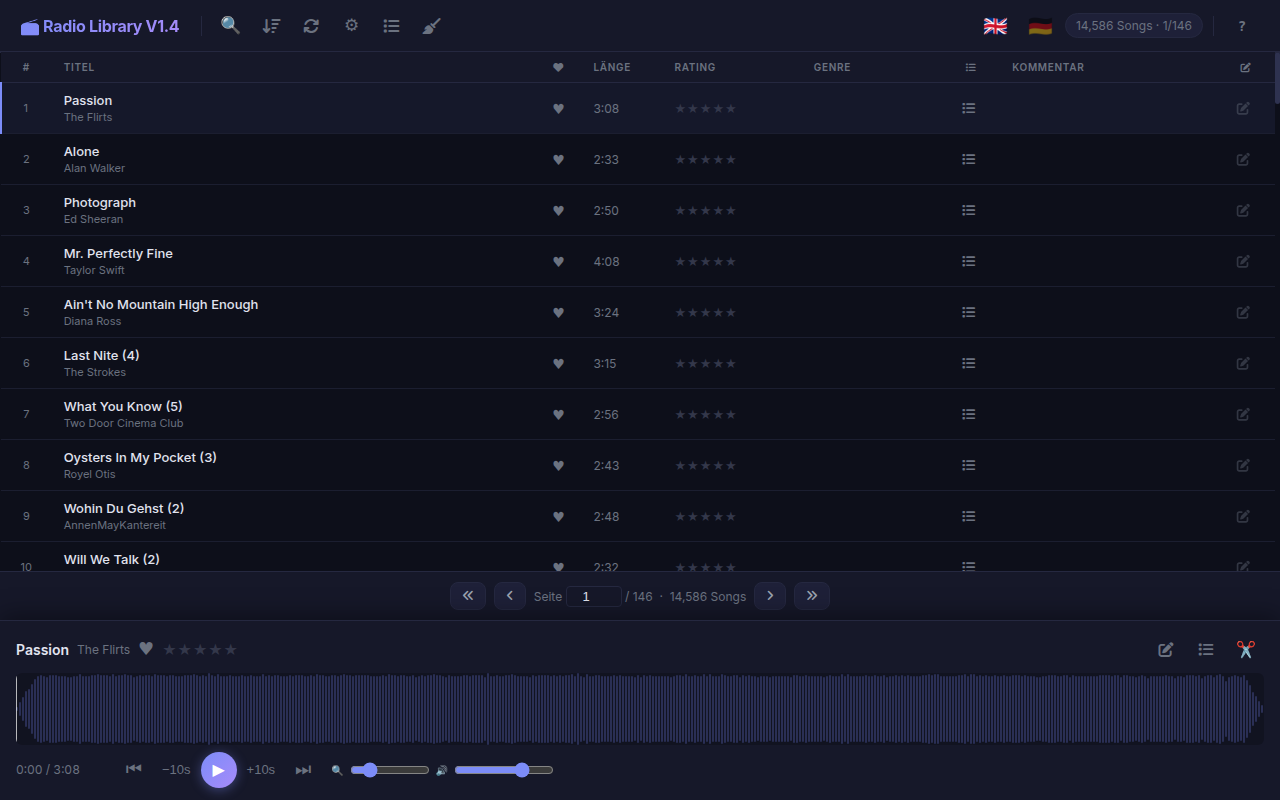
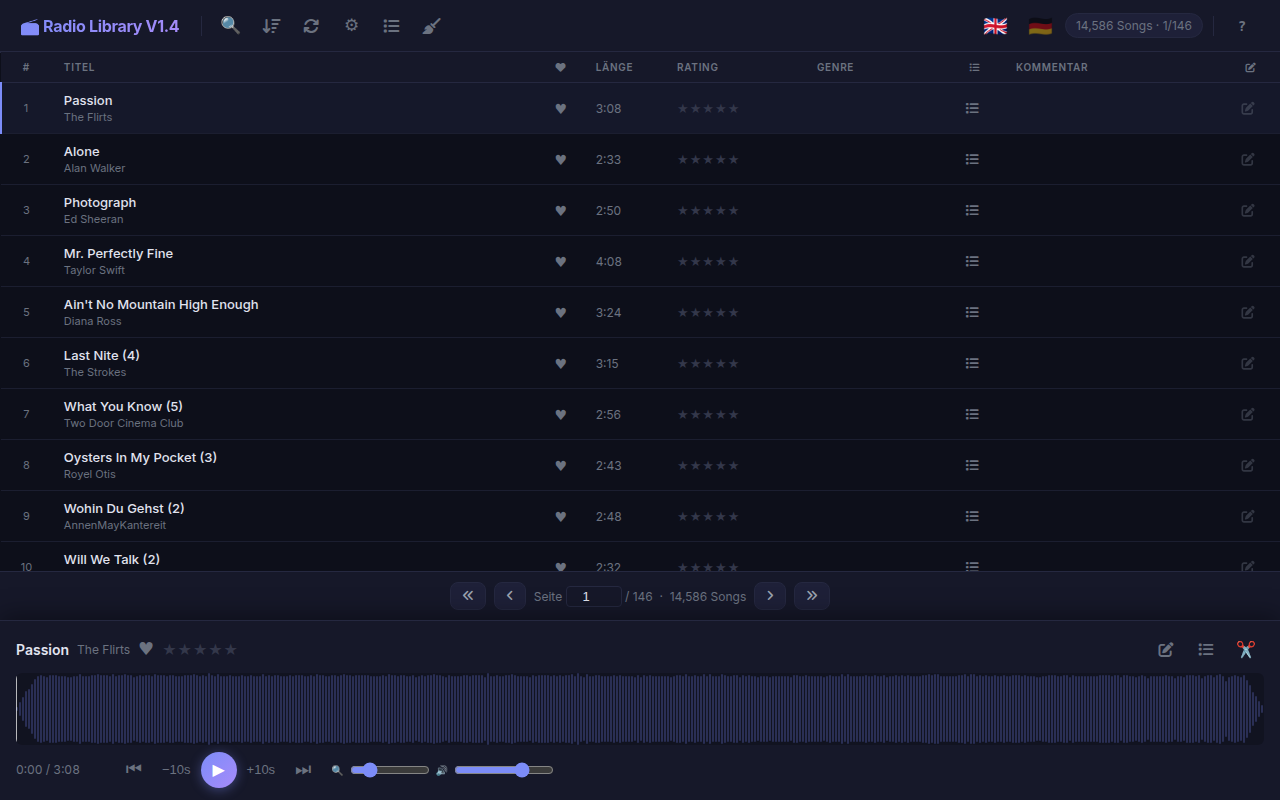
docs: add dialog screenshots (filter, sort, recording, playlists, cleanup, shortcuts)

diff --git a/README.md b/README.md
@@ -28,6 +28,21 @@ Radio Library lets you **own your music**. Every song played on your favorite ra
 ### Recording Control
 ![Recording Control](screenshots/03-recording.png)
 
+### Filter
+![Filter Dialog](screenshots/04-filter.png)
+
+### Sort Order
+![Sort Dialog](screenshots/05-sort.png)
+
+### Playlist Manager
+![Playlist Manager](screenshots/06-playlists.png)
+
+### Cleanup
+![Cleanup Dialog](screenshots/07-cleanup.png)
+
+### Keyboard Shortcuts
+![Shortcuts Help](screenshots/08-shortcuts.png)
+
 ## Architecture
 
 | Layer | Technology |
